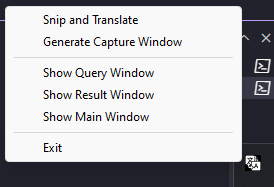
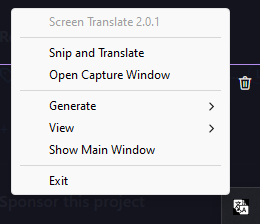
bump version 2.0.0 -> 2.0.1

diff --git a/screen_translate/_version.py b/screen_translate/_version.py
@@ -1,2 +1,2 @@
-__version__ = "2.0.0"
+__version__ = "2.0.1"
 __setting_version__ = "2.0.0"

diff --git a/readme.md b/readme.md
@@ -145,7 +145,7 @@ This will create a folder called `build` in the source code directory. Inside th
 
 ## Packaging
 
-I use innosetup to package the app. You can download it [here](https://jrsoftware.org/isdl.php). After installing it, you can setup the path in `ScreenTranslate.iss` file and run the .iss script.
+I use innosetup to package the app. You can download it [here](https://jrsoftware.org/isdl.php). After installing it, you can setup the path and AppId in `ScreenTranslate.iss` file and run the .iss script.
 
 ## Contributing
 
